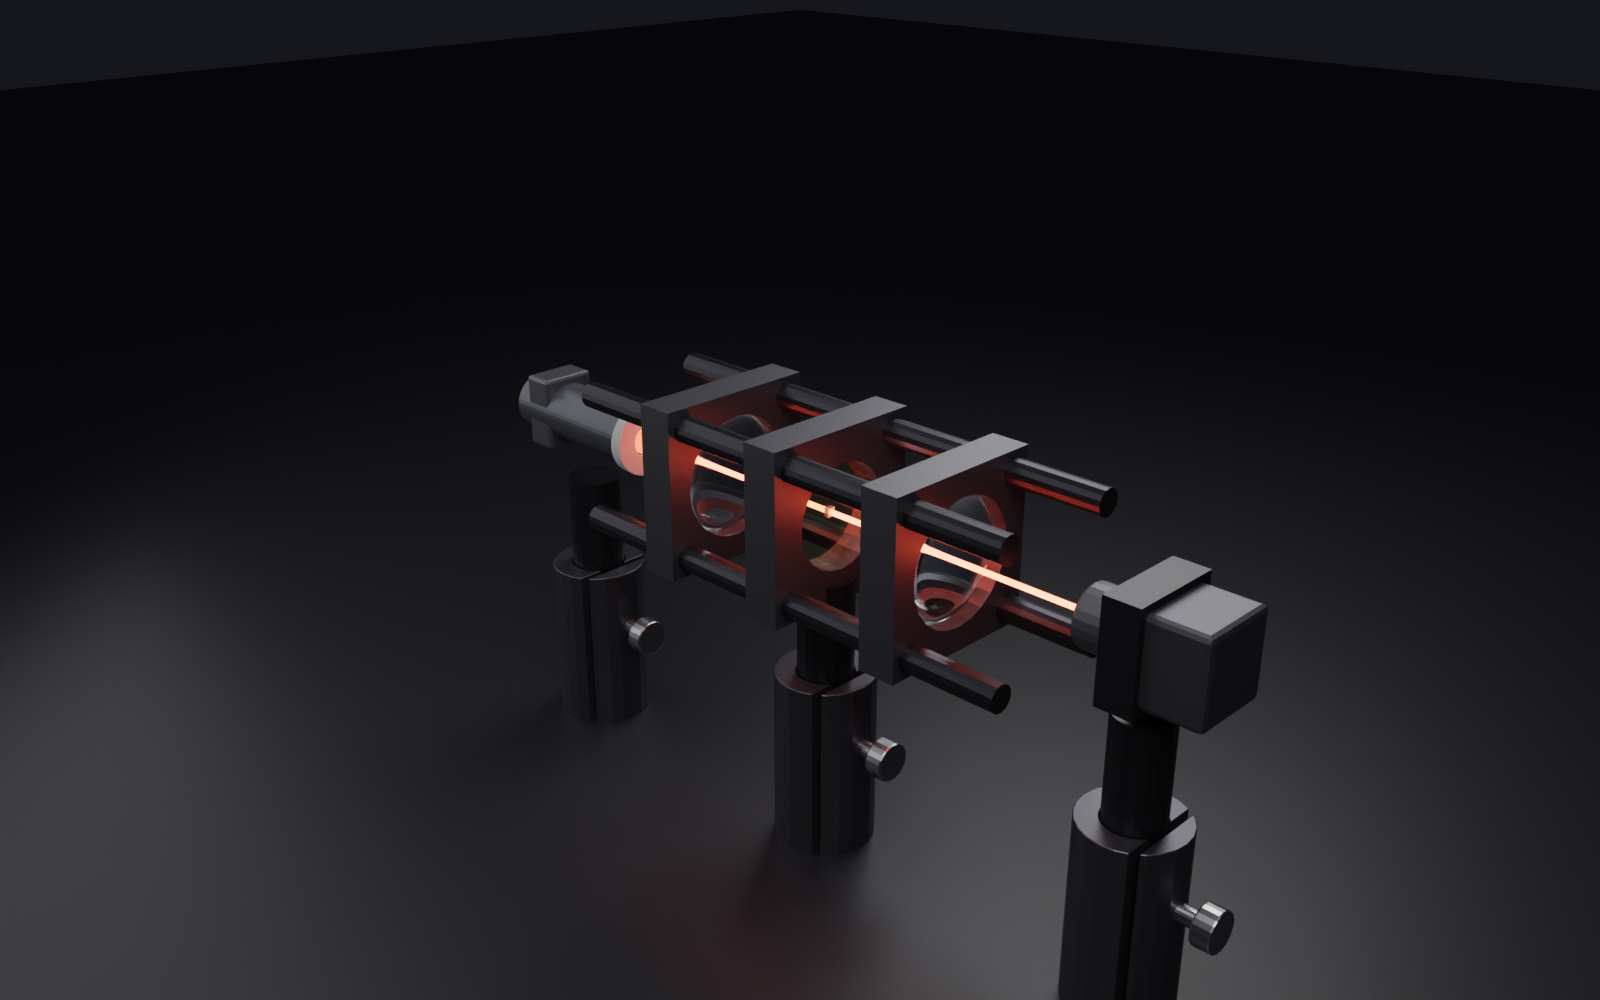
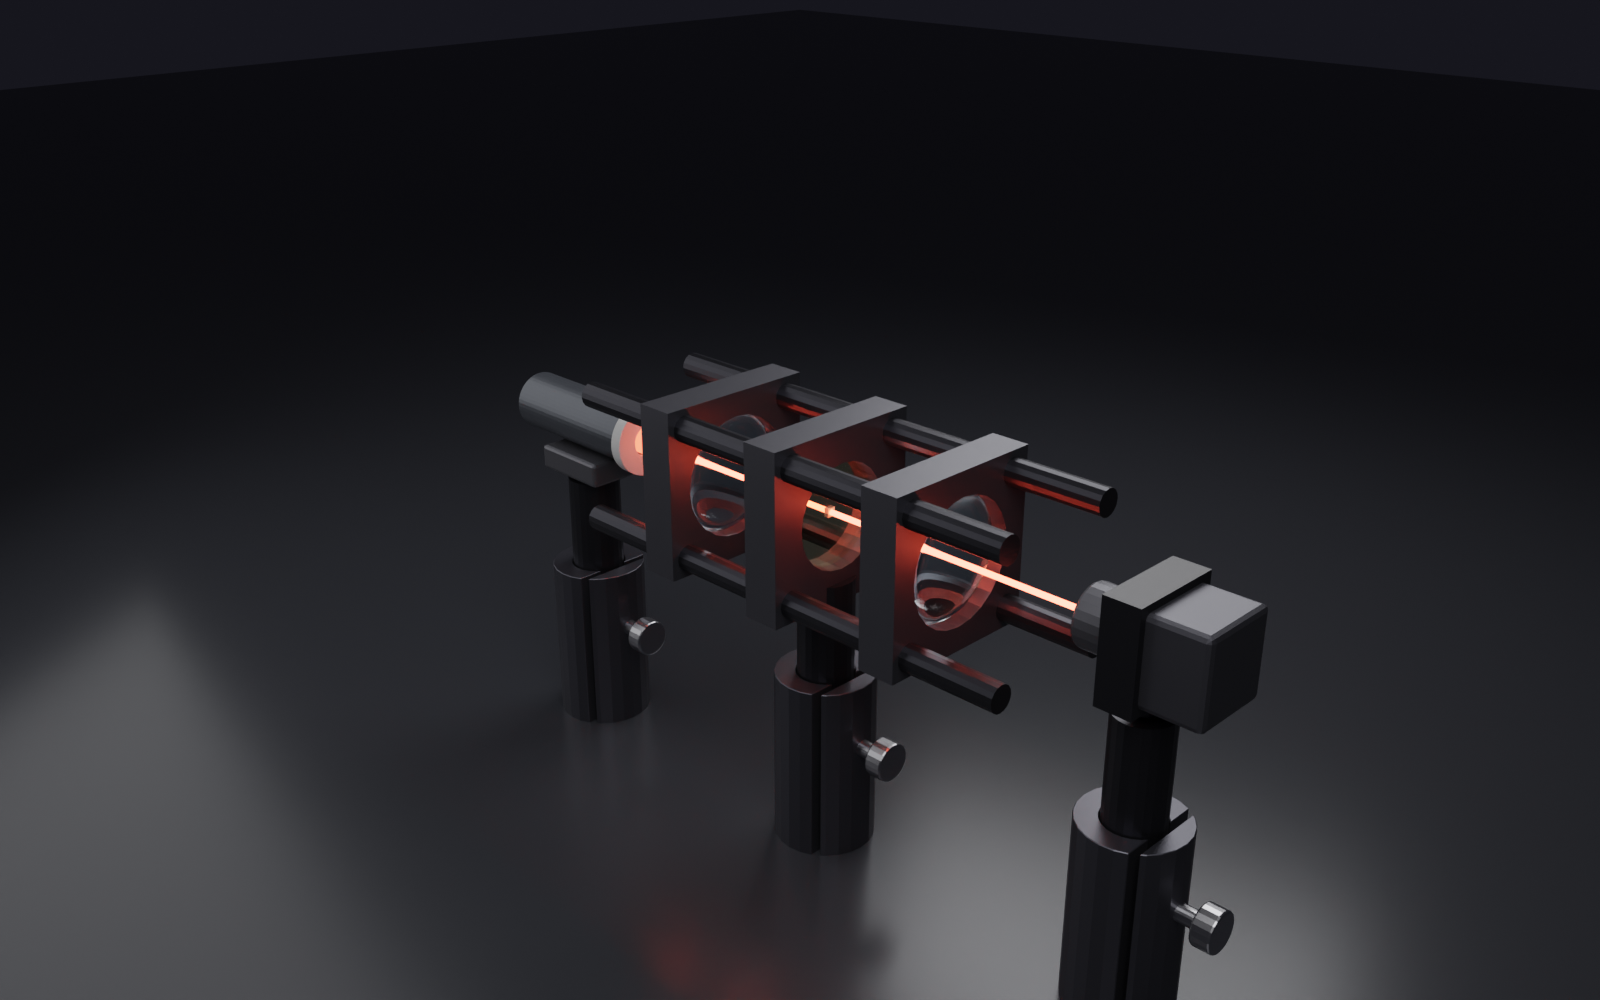
feat(examples): full cage/tube/rail/hybrid system showcases + render polish (v0.9.0)
Owner: "full cage / full tube / full rail / hybrid sistemler yapalim, gosterelim insanlara neler
yapabiliyoruz." Built from real Thorlabs/Newport layouts (6-agent reference research). Four new
build_example() showcases:
- cage_system: 30 mm cage relay (fibre -> collimator -> polarizer -> PBS on 4 rods + post; PBS -> turn
  mirror -> camera + side-port dump)
- tube_system: SM1 lens-tube 4f relay (fibre + 2x f=50 lenses in one barrel) -> camera
- rail_system: Galilean beam-expander beamline (div + conv lens, iris, fold) on one dovetail rail
- hybrid_system: cage launcher -> post turning mirror -> rail analyzer train -> camera (mixes all 3)
Each dresses trace-identically + validator-clean (regression 164 -> 176). New README "Complete systems"
gallery.

Render polish (owner feedback): laser/source holder is now a saddle clamp + world-vertical stem to the
post (was floating; old bracket sat at local -Z = behind a horizontal laser). Mirror reflections fixed
at the source -- a perfect mirror reflects its surroundings, so a dark world made it black; crisper
metal roughness + a dark semi-glossy table ground give it a real floor + highlights to reflect. All
README renders regenerated.

diff --git a/optical_alignment_sim/examples_builtin.py b/optical_alignment_sim/examples_builtin.py
@@ -147,6 +147,87 @@ def build_periscope(context):
     return "OpticsExample_Periscope"
 
 
+def _group(elems, system, gid):
+    """Tag a collinear run of optics into one support system (cage/tube/rail). Dress Bench then builds
+    the shared hardware (4 rods + plates + one post / one barrel + post / a rail + carriers) instead of
+    a post under each -- and never moves the optics, so the trace stays identical."""
+    for o in elems:
+        o.optics.support_system = system
+        if system.startswith('CAGE'):
+            o.optics.cage_id = gid
+        elif system.startswith('TUBE'):
+            o.optics.tube_id = gid
+        elif system == 'RAIL':
+            o.optics.rail_id = gid
+
+
+def build_cage_system(context):
+    """A complete 30 mm CAGE relay (Thorlabs-style): a fibre launcher, a collimating lens, a clean-up
+    polarizer and a polarizing beamsplitter all share four ER cage rods + one post; the PBS transmits
+    p-pol straight to a 90 deg turning mirror -> camera, and reflects s-pol out the side to a beam dump.
+    Dress Bench to see the cage. Showcases an in-line cage subsystem feeding free-space post mounts."""
+    coll = G.example_collection("OpticsExample_CageSystem")
+    X, Y = Vector((1, 0, 0)), Vector((0, 1, 0))
+    f = G.fiber_collimator("CG_Fiber", (-105, 0, 0), X, coll)
+    l1 = G.lens("CG_Collimate", (-55, 0, 0), X, coll, focal=50.0, radius=12.0)
+    pol = G.polarizer("CG_CleanPol", (-15, 0, 0), X, coll)
+    pbs = G.beamsplitter("CG_PBS", (25, 0, 0), X, Y, coll, pbs=True)
+    _group([f, l1, pol, pbs], 'CAGE_30', 'cage_main')          # the 30 mm cage train
+    G.mirror("CG_Turn", (95, 0, 0), X, Y, coll)                # transmitted p-pol: +X -> +Y
+    G.detector("CG_Cam", (95, 80, 0), Y, coll)
+    G.detector("CG_Dump", (25, 70, 0), Y, coll)                # reflected s-pol side port -> dump
+    return "OpticsExample_CageSystem"
+
+
+def build_tube_system(context):
+    """A complete SM1 LENS-TUBE imaging stack: a fibre input and two f = 50 mm relay lenses share one
+    Ø1.2" lens-tube barrel (a 4f relay), delivering the image to a C-mount camera at the end. Dress
+    Bench to see the tube. Showcases an entire in-line system built inside lens tubes (no open posts)."""
+    coll = G.example_collection("OpticsExample_TubeSystem")
+    X = Vector((1, 0, 0))
+    f = G.fiber_collimator("TB_Fiber", (-75, 0, 0), X, coll)
+    l1 = G.lens("TB_L1", (-25, 0, 0), X, coll, focal=50.0, radius=12.0)
+    l2 = G.lens("TB_L2", (75, 0, 0), X, coll, focal=50.0, radius=12.0)        # 2f = 100 mm relay gap
+    _group([f, l1, l2], 'TUBE_SM1', 'tube_relay')              # one SM1 barrel holds the whole relay
+    G.detector("TB_Cam", (125, 0, 0), X, coll)                 # image plane (f after L2)
+    return "OpticsExample_TubeSystem"
+
+
+def build_rail_system(context):
+    """A complete RAIL beamline: a Galilean beam-expander (diverging f = -25 mm + converging f = +75 mm,
+    separation 50 mm -> 3x), an alignment iris and a fold mirror each ride a carrier on ONE dovetail
+    rail, so every optic slides along a common track. Dress Bench to see the rail + carriers."""
+    coll = G.example_collection("OpticsExample_RailSystem")
+    X, Y = Vector((1, 0, 0)), Vector((0, 1, 0))
+    G.source("RL_Laser", (-130, 0, 0), X, coll)
+    l1 = G.lens("RL_L1_div", (-40, 0, 0), X, coll, focal=-25.0, radius=10.0)
+    iris = G.aperture("RL_Iris", (-12, 0, 0), X, coll, radius=14.0)
+    l2 = G.lens("RL_L2_conv", (10, 0, 0), X, coll, focal=75.0, radius=16.0)   # Galilean: sep = 75-25 = 50
+    m = G.mirror("RL_Fold", (70, 0, 0), X, Y, coll)            # send the expanded beam off-rail
+    _group([l1, iris, l2, m], 'RAIL', 'rail_main')             # all four on one dovetail rail
+    G.detector("RL_Cam", (70, 80, 0), Y, coll)
+    return "OpticsExample_RailSystem"
+
+
+def build_hybrid_system(context):
+    """A HYBRID bench combining all three systems: a 30 mm CAGE launcher (fibre + collimator + polarizer)
+    hands a beam to a free-space POST-mounted 90 deg turning mirror, which feeds a RAIL-mounted analyzer
+    train (focusing lens + analyzer polarizer) into a camera. Dress Bench to see cage + post + rail
+    on one breadboard -- the showcase of mixing mounting systems."""
+    coll = G.example_collection("OpticsExample_HybridSystem")
+    X, Y = Vector((1, 0, 0)), Vector((0, 1, 0))
+    f = G.fiber_collimator("HY_Fiber", (-110, 0, 0), X, coll)
+    l1 = G.lens("HY_Collimate", (-65, 0, 0), X, coll, focal=45.0, radius=12.0)
+    pol = G.polarizer("HY_Pol", (-30, 0, 0), X, coll)
+    _group([f, l1, pol], 'CAGE_30', 'hy_cage')                 # CAGE launcher
+    G.mirror("HY_Turn", (20, 0, 0), X, Y, coll)                # free-space POST turning mirror: +X -> +Y
+    l2 = G.lens("HY_Focus", (20, 60, 0), Y, coll, focal=75.0, radius=14.0)
+    an = G.polarizer("HY_Analyzer", (20, 100, 0), Y, coll)
+    _group([l2, an], 'RAIL', 'hy_rail')                        # RAIL analyzer train
+    G.detector("HY_Cam", (20, 140, 0), Y, coll)
+    return "OpticsExample_HybridSystem"
+
+
 EXAMPLES = {
     'mach_zehnder': ("Mach-Zehnder Interferometer", build_mach_zehnder),
     'michelson':    ("Michelson Interferometer", build_michelson),
@@ -155,6 +236,10 @@ EXAMPLES = {
     'adaptive_optics': ("Adaptive Optics (WFS + deformable mirror)", build_adaptive_optics),
     'newton_rings': ("Newton's Rings (lens vs flat)", build_newton_rings),
     'periscope':    ("Periscope (vertical beam raise)", build_periscope),
+    'cage_system':  ("Cage System (full 30 mm relay)", build_cage_system),
+    'tube_system':  ("Lens-Tube System (4f relay -> camera)", build_tube_system),
+    'rail_system':  ("Rail System (beam expander beamline)", build_rail_system),
+    'hybrid_system': ("Hybrid (cage + post + rail)", build_hybrid_system),
 }
 
 

diff --git a/tests/test_optics.py b/tests/test_optics.py
@@ -48,9 +48,21 @@ check("beam_roc(waist) = inf", math.isinf(physics.beam_roc(physics.q_from_waist(
 check("gouy(waist) = 0", abs(physics.gouy_phase(physics.q_from_waist(0.5, 632.8))) < 1e-9)
 
 print("[examples build + trace]")
-for kind in ("mach_zehnder", "michelson", "hong_ou_mandel", "bell", "adaptive_optics", "newton_rings", "periscope"):
+for kind in ("mach_zehnder", "michelson", "hong_ou_mandel", "bell", "adaptive_optics", "newton_rings",
+             "periscope", "cage_system", "tube_system", "rail_system", "hybrid_system"):
     r = optics_api.build_example(kind)
     check("build %s" % kind, isinstance(r, dict) and r.get("segments", 0) >= 1, str(r))
+
+print("[full systems: cage / tube / rail / hybrid dress trace-safe + valid]")
+for kind in ("cage_system", "tube_system", "rail_system", "hybrid_system"):
+    optics_api.build_example(kind)
+    _n0 = len(scan._trace(sc))
+    optomech.dress(sc)
+    _n1 = len(scan._trace(sc))
+    check("%s dressing leaves the trace identical" % kind, _n0 == _n1, "%d vs %d" % (_n0, _n1))
+    check("%s dressing is geometrically valid" % kind, optomech.validate(sc) == [],
+          str(optomech.validate(sc)))
+    optics_api.dress_bench(False)
 
 print("[periscope: out-of-plane vertical fold]")
 optics_api.build_example("periscope")

diff --git a/optical_alignment_sim/render.py b/optical_alignment_sim/render.py
@@ -144,7 +144,7 @@ def _render_material(et):
         return m
     if kind == 'metal':
         m, b = _principled("OAR_metal_" + et)
-        _setb(b, "Base Color", (*tint, 1.0)); _setb(b, "Metallic", 1.0); _setb(b, "Roughness", 0.04)
+        _setb(b, "Base Color", (*tint, 1.0)); _setb(b, "Metallic", 1.0); _setb(b, "Roughness", 0.025)
         return m
     if kind == 'dark':
         m, b = _principled("OAR_dark_" + et)
@@ -226,7 +226,9 @@ def studio_lighting(scene):
         bm = bmesh.new(); bmesh.ops.create_grid(bm, x_segments=1, y_segments=1, size=size * 7.0)
         bm.to_mesh(me); bm.free()
         gm, gb = _principled("OAR_ground")
-        _setb(gb, "Base Color", (0.015, 0.015, 0.02, 1.0)); _setb(gb, "Roughness", 0.45); _setb(gb, "Metallic", 0.2)
+        # a dark semi-GLOSSY optical-table surface: the (often 45 deg) mirrors then reflect a real floor
+        # + the softbox highlights instead of dead black -- the fix for "mirror reflections look wrong".
+        _setb(gb, "Base Color", (0.045, 0.047, 0.055, 1.0)); _setb(gb, "Roughness", 0.26); _setb(gb, "Metallic", 0.3)
         me.materials.append(gm)
         g = bpy.data.objects.new("OPTICS_Studio_Ground", me)
         scene.collection.objects.link(g)

diff --git a/CHANGELOG.md b/CHANGELOG.md
@@ -4,6 +4,30 @@ All notable changes to the **Blender Optics Simulator** (`optical_alignment_sim`
 here. The format follows [Keep a Changelog](https://keepachangelog.com/), and the project uses
 semantic versioning.
 
+## [0.9.0]
+
+### Added — complete-system showcases
+- Four new built-in examples that compose whole mounting subsystems (each `build_example(...)`),
+  grounded in real Thorlabs/Newport layouts (multi-agent reference research):
+  - **`cage_system`** — a full 30 mm cage relay: fibre launcher → collimating lens → clean-up
+    polarizer → PBS share four ER rods + one post; PBS transmits to a 90° turning mirror → camera and
+    reflects to a beam dump.
+  - **`tube_system`** — an SM1 lens-tube 4f relay (fibre + two f = 50 mm lenses in one Ø1.2″ barrel) →
+    C-mount camera.
+  - **`rail_system`** — a Galilean beam-expander beamline (diverging + converging lens, iris, fold
+    mirror) with every optic on a carrier riding one dovetail rail.
+  - **`hybrid_system`** — all three combined: a cage launcher → a free-space post mirror → a
+    rail-mounted analyzer train → camera.
+- Each dresses trace-identically and passes the geometric validator (regression 164 → 176).
+
+### Fixed — render polish (owner feedback)
+- **Laser/source holder** rebuilt: a saddle clamp keyed to the body's real underside + a world-vertical
+  stem to the post top — the source no longer floats beside a disconnected post (old bracket sat at
+  local −Z = behind a horizontal laser).
+- **Mirror reflections** read correctly: a perfect mirror reflects its surroundings, so in a dark world
+  it went black. Crisper metal roughness (0.04 → 0.025) + a dark semi-glossy optical-table ground give
+  the mirrors a real floor + softbox highlights to reflect.
+
 ## [0.8.2]
 
 ### Fixed — render polish (owner feedback)

diff --git a/README.md b/README.md
@@ -67,6 +67,24 @@ optics into a cage/tube/rail never moves them, so the beam path is byte-identica
 post-clamp collars (the real **RS99** assembly), and the beam runs up beside the post in clear air. A
 geometric **validator** guarantees no support post ever sits in a beam path.*
 
+### Complete systems
+
+The same primitives compose into entire subsystems — each a one-line
+`build_example('cage_system' | 'tube_system' | 'rail_system' | 'hybrid_system')`, fully agent-drivable:
+
+| Full 30 mm cage relay | SM1 lens-tube 4f → camera | Dovetail-rail beam expander |
+|:---:|:---:|:---:|
+| ![cage system](docs/img/sys-cage-full.png) | ![tube system](docs/img/sys-tube-full.png) | ![rail system](docs/img/sys-rail-full.png) |
+| fibre → collimator → polarizer → PBS share 4 rods + one post | a fibre + two relay lenses share one Ø1.2″ barrel | a Galilean expander + iris + fold ride carriers on one rail |
+
+<p align="center">
+  <img src="docs/img/sys-hybrid.png" width="62%" alt="A hybrid bench: a 30 mm cage launcher feeds a post-mounted turning mirror, which feeds a rail-mounted analyzer train into a camera">
+</p>
+
+*A **hybrid** bench mixes all three systems on one breadboard — a cage launcher → a free-space
+post-mounted turning mirror → a rail-mounted analyzer train into a camera. Grouping optics into a
+cage/tube/rail never moves them, so every system's beam path stays byte-identical to the bare bench.*
+
 ---
 
 ## Why this exists
